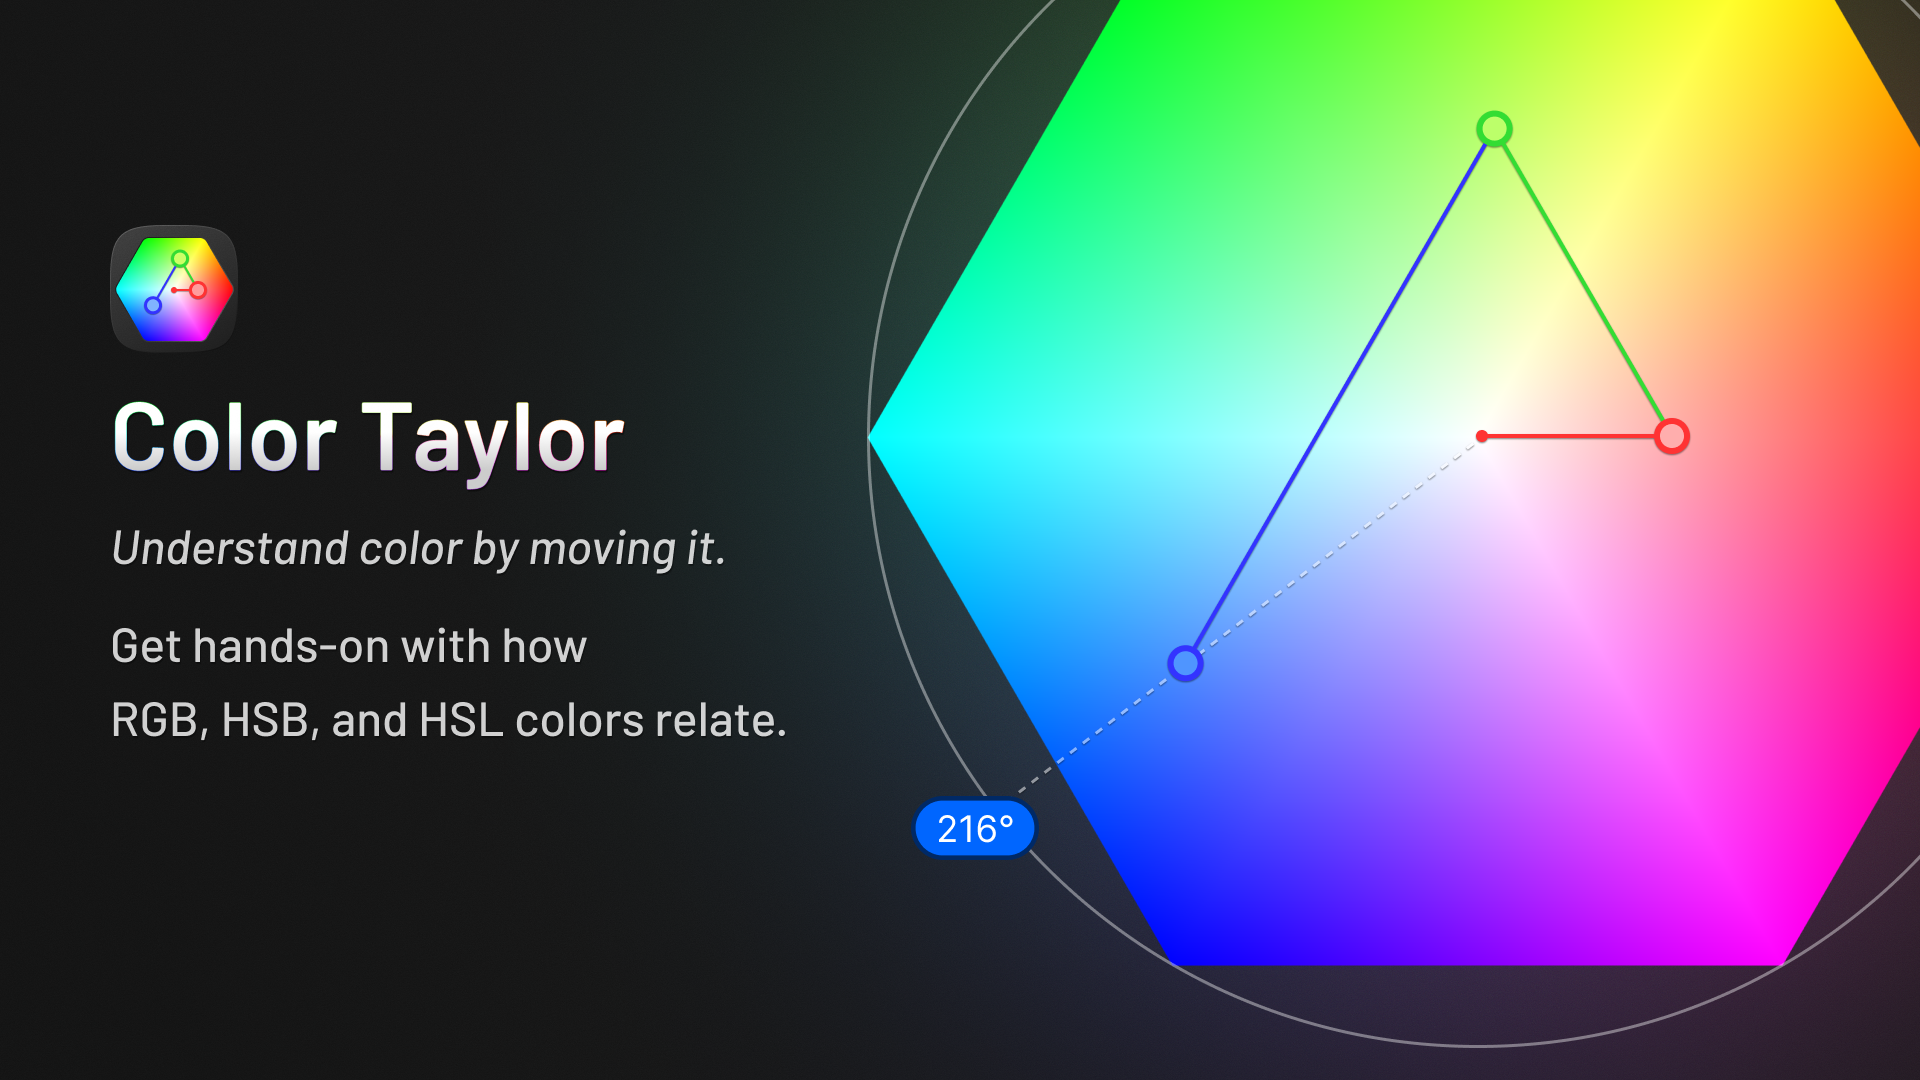
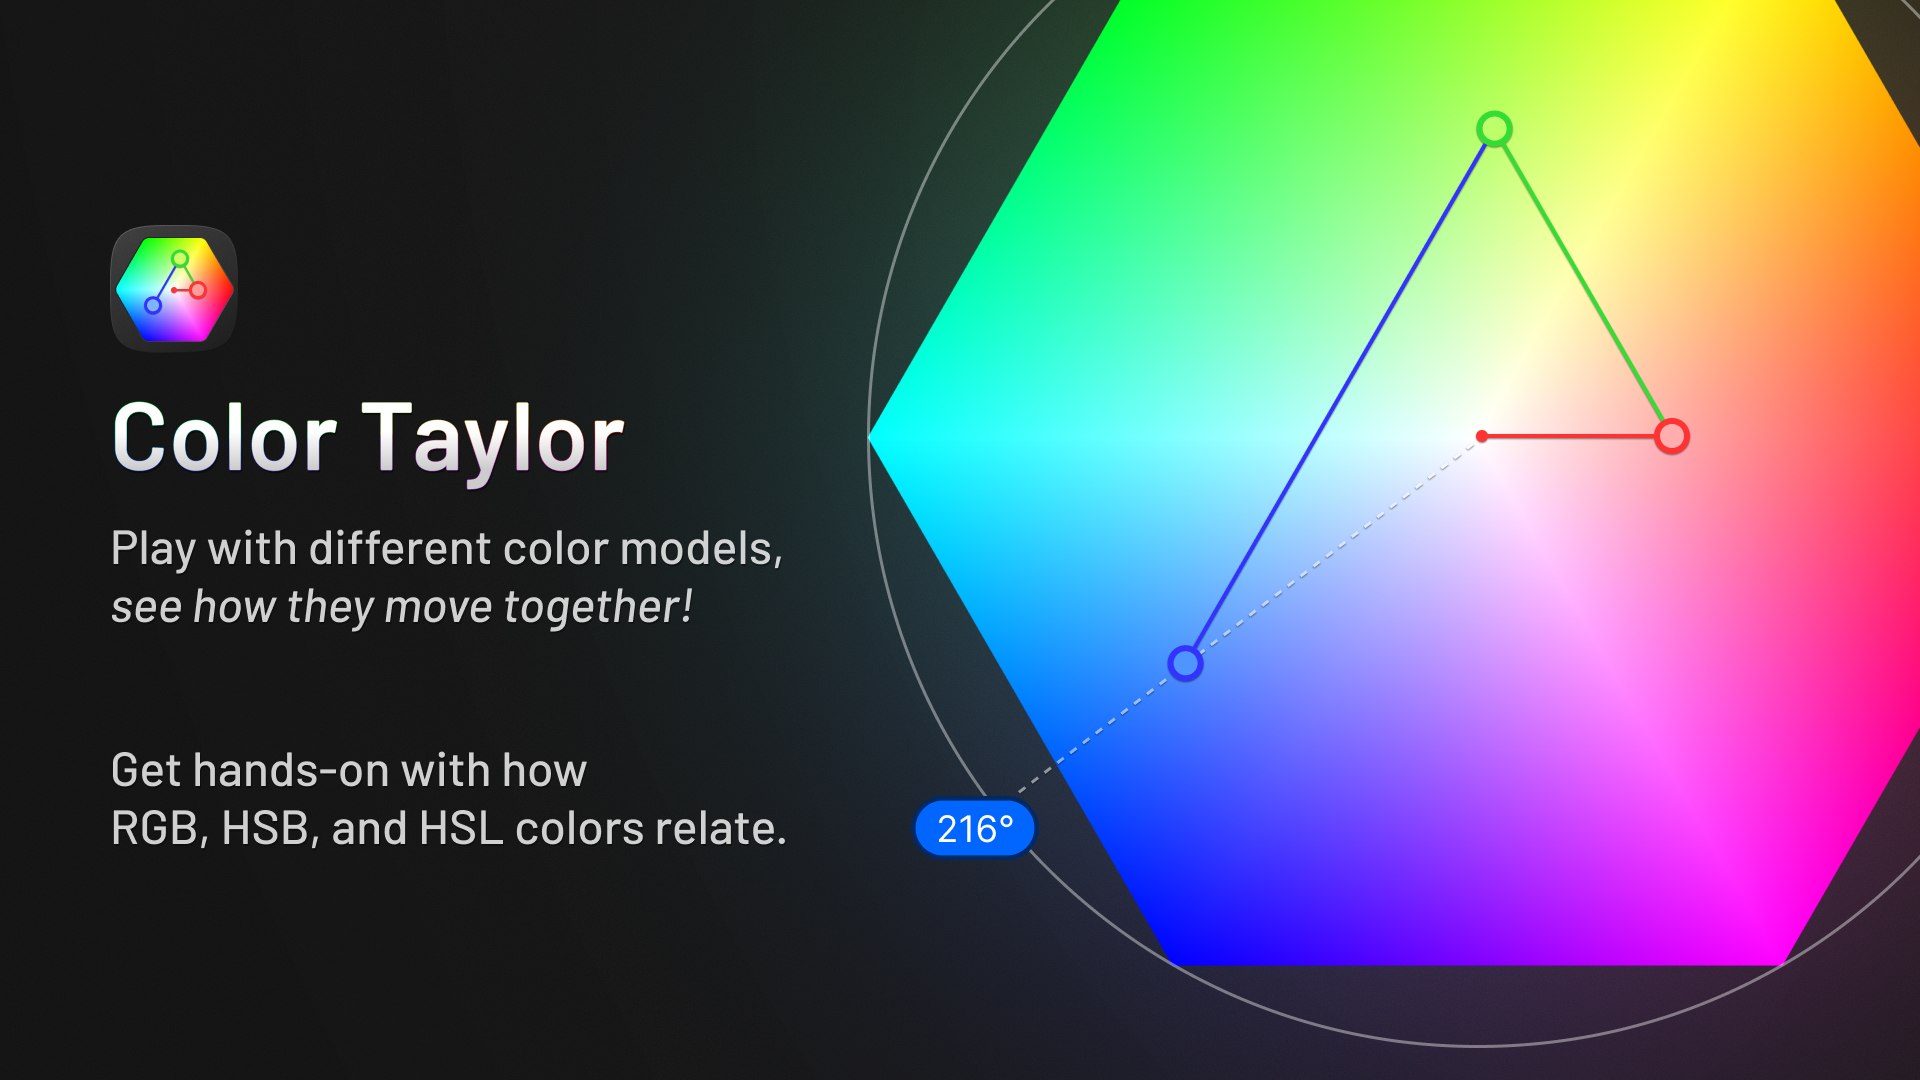
Link preview: the refreshed thumbnail, whole, at 1200x675
Taylor updated the Figma Community thumbnail (node 49:3): the app icon,
the name, both tagline lines and the hexagon. figma/brand/cover-1920x1080.png
is the new export and public/og-image.jpg is regenerated from it.

No trimming, on Taylor's call: the card is the full 16:9 frame at 1200x675
rather than centre-cropped to 1200x630. Platforms that want 1.91:1 crop
about 22 px each way themselves, clear of the text; Discord shows it whole.
The declared height, the spec, the script, the alt text (both og and
twitter) and the decision note follow.

Changed region(s): [[0.0625, 0.6417, 0.4062, 0.7944], [0.0625, 0.4889, 0.4062, 0.6111]]

diff --git a/index.html b/index.html
@@ -54,10 +54,10 @@
     <meta property="og:image" content="%SITE_URL%og-image.jpg" />
     <meta property="og:image:type" content="image/jpeg" />
     <meta property="og:image:width" content="1200" />
-    <meta property="og:image:height" content="630" />
+    <meta property="og:image:height" content="675" />
     <meta
       property="og:image:alt"
-      content="The Color Taylor hexagon - a six-cornered color field with red, green and blue vectors drawn across it - beside the words &quot;Understand color by moving it.&quot;"
+      content="The Color Taylor app icon and name beside the hexagon - a six-cornered color field with red, green and blue vectors drawn across it - and the words &quot;Play with different color models, see how they move together! Get hands-on with how RGB, HSB, and HSL colors relate.&quot;"
     />
     <meta property="og:locale" content="en_GB" />
     <meta name="twitter:card" content="summary_large_image" />
@@ -69,7 +69,7 @@
     <meta name="twitter:image" content="%SITE_URL%og-image.jpg" />
     <meta
       name="twitter:image:alt"
-      content="The Color Taylor hexagon - a six-cornered color field with red, green and blue vectors drawn across it - beside the words &quot;Understand color by moving it.&quot;"
+      content="The Color Taylor app icon and name beside the hexagon - a six-cornered color field with red, green and blue vectors drawn across it - and the words &quot;Play with different color models, see how they move together! Get hands-on with how RGB, HSB, and HSL colors relate.&quot;"
     />
     <!--
       Theme bootstrap. Blocking on purpose, and it has to stay in <head>.

diff --git a/tests/link-preview.spec.ts b/tests/link-preview.spec.ts
@@ -50,7 +50,7 @@ test.describe('Link preview metadata', () => {
     // The declared dimensions are used to lay the card out before the image
     // arrives, so a stale value shows as a reflow in the preview.
     await expect(meta(page, 'og:image:width')).toHaveAttribute('content', '1200');
-    await expect(meta(page, 'og:image:height')).toHaveAttribute('content', '630');
+    await expect(meta(page, 'og:image:height')).toHaveAttribute('content', '675');
   });
 
   test('the card copy matches the manifest', async ({ page, request }) => {

diff --git a/wiki/notes/decision-link-preview-card.md b/wiki/notes/decision-link-preview-card.md
@@ -24,13 +24,15 @@ A scraper never loads the document. It fetches the HTML, reads `og:image`, and r
 
 So `og:image` and `og:url` are fully qualified, filled from a new `%SITE_URL%` token by a `transformIndexHtml` plugin in `vite.config.js` that mirrors how Vite fills `%BASE_URL%`. It derives the origin from the same `base` expression, so the dev deploy advertises `/color-taylor/dev/` and production advertises `/color-taylor/`. The default `./` build falls back to the production URL — a `file://` preview is never scraped, and pointing at the live site beats emitting something broken.
 
-## JPEG, and 1200x630
+## JPEG, and 1200x675 (was 1200x630)
 
 Both were measured, not assumed.
 
 **Format.** The same frame is 884 KB as PNG and 79 KB as JPEG at quality 0.92. It is a continuous colour field, which is what JPEG is for. Size is not cosmetic: WhatsApp is the strictest consumer here and drops previews for large images without saying so. WebP came out smaller still (40 KB) and was rejected — not every scraper decodes it, and 79 KB is already far inside every limit.
 
-**Aspect.** The thumbnail is 16:9; Open Graph's de facto size is 1200x630, or 1.905:1. The script centre-crops 36 source pixels off the top and bottom, which at that scale takes only empty backdrop — the title block sits between y=210 and y=740 and the hexagon bleeds off three edges. Shipping 16:9 instead would not avoid the crop, only move it to each platform, where it happens centred but unpredictably and outside our control. Discord is the one that would have shown the full 16:9; giving up that one is worth the guarantee everywhere else.
+**Aspect, 2026-09-16.** Taylor refreshed the thumbnail (node 49:3) and asked for no trimming: the card is now the whole 16:9 frame at 1200x675. It is the trade recorded below taken the other way: platforms that want 1.91:1 crop about 22 px top and bottom themselves, and Discord shows it whole. The frame's text sits between roughly y=140 and y=530 of 675, clear of any such crop.
+
+**Aspect, as first decided.** The thumbnail is 16:9; Open Graph's de facto size is 1200x630, or 1.905:1. The script centre-crops 36 source pixels off the top and bottom, which at that scale takes only empty backdrop — the title block sits between y=210 and y=740 and the hexagon bleeds off three edges. Shipping 16:9 instead would not avoid the crop, only move it to each platform, where it happens centred but unpredictably and outside our control. Discord is the one that would have shown the full 16:9; giving up that one is worth the guarantee everywhere else.
 
 `og:image:width` and `og:image:height` are declared because scrapers lay the card out before the image finishes downloading; a stale value shows up as a reflow. The spec asserts they match.
 

diff --git a/README.md b/README.md
@@ -1,6 +1,6 @@
 # Color Taylor 🎨🧵
 
-![The Color Taylor hexagon, a six-cornered color field with red, green and blue vectors drawn across it, beside the words "Understand color by moving it."](public/og-image.jpg)
+![The Color Taylor app icon and name beside the hexagon, a six-cornered color field with red, green and blue vectors drawn across it, and the words "Play with different color models, see how they move together! Get hands-on with how RGB, HSB, and HSL colors relate."](public/og-image.jpg)
 
 Color Taylor is a color playground for seeing how RGB relates to HSB and HSL, and how every slider moves with the others. Drag the channel handles on the hexagon to see how individual R, G and B values map into the space. Pull saturation down and watch three RGB values converge.
 

diff --git a/figma/brand/README.md b/figma/brand/README.md
@@ -17,8 +17,8 @@ connecting lines dissolve below about 32px. `scripts/make-favicons.mjs` turns
 these three PNGs into everything in `public/` - run it after re-exporting any
 of them.
 
-`cover-1920x1080.png` has a second consumer: `scripts/make-og-image.mjs` crops
-and compresses it into `public/og-image.jpg`, the link-preview card the web app
+`cover-1920x1080.png` has a second consumer: `scripts/make-og-image.mjs` scales
+it to 1200x675 and compresses it into `public/og-image.jpg`, the link-preview card the web app
 shows when its URL is pasted into WhatsApp, Discord, Slack, X or Bluesky. Same
 artwork on the Community listing and in a chat window, on purpose - see
 [[decision-link-preview-card]]. Re-run it too after re-exporting the thumbnail.
